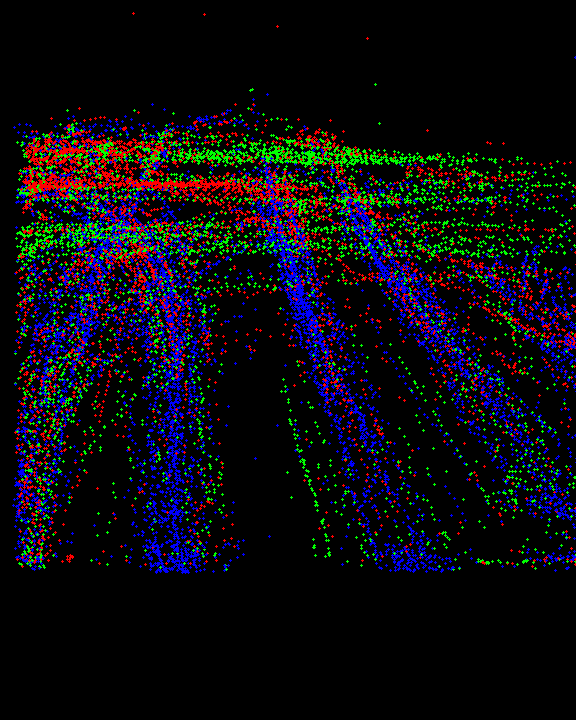
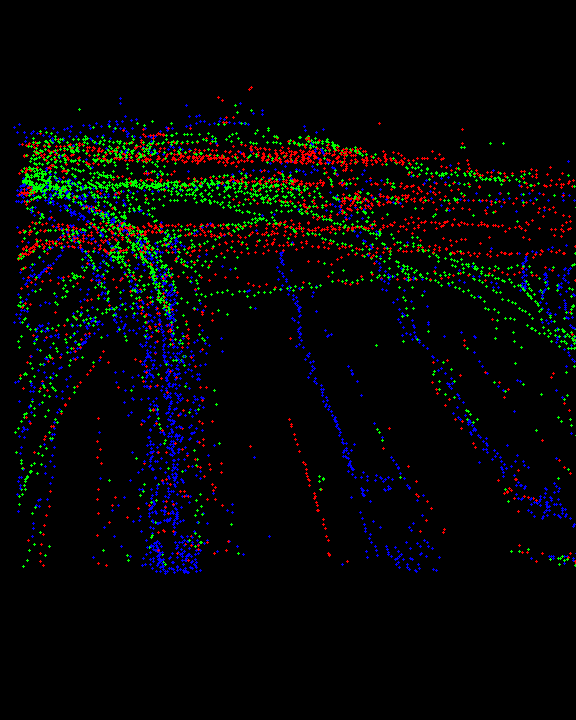
2019.8.06 morning
Get theta info from different clusters

diff --git a/Trajectory/point_cloud.py b/Trajectory/point_cloud.py
@@ -4,15 +4,18 @@ import os
 from sklearn.cluster import KMeans, SpectralClustering
 import pandas as pd
 import cv2
+from statistics import mean
 
-height_list = [720, 720, 480]
-width_list = [576, 576, 360]
+height_list = [720, 720, 480, 1920, 640]
+width_list = [576, 576, 360, 1080, 360]
 
 base = r'E:\MIT\Processed Data'
-name_list = ['car_surveillnace', 'LOOP', 'video1']
+name_list = ['car_surveillnace', 'LOOP', 'video1', 'video3', 'video6']
 
-# control which video to use
+# Parameters
 i = 1
+weight = 50
+cluster_num = 3
 
 video_name = name_list[i]
 height = height_list[i]
@@ -38,8 +41,6 @@ def point_cloud_cluster(vehicle_info_all):
     cy = []
     theta = []
     vehicle_data = []
-    weight = 50
-    cluster_num = 3
 
     for frame_index, frame_info in vehicle_info_all.items():
         for car_index, vehicle_info in frame_info.items():
@@ -49,6 +50,7 @@ def point_cloud_cluster(vehicle_info_all):
 
     df = pd.DataFrame(list(zip(cx, cy, theta)), columns=['cx', 'cy', 'theta'])
 
+    theta_min, theta_max = 0, 0
     for index, row in df.iterrows():
         vehicle_data.append([row['cx'], row['cy'], row['theta']])
 
@@ -61,12 +63,43 @@ def point_cloud_cluster(vehicle_info_all):
 
     img = np.zeros((height, width, 3), np.uint8)
 
-    colors = [(0, 0, 255), (0, 255, 0), (255, 0, 0), (255, 255, 0), (255, 0, 255), (0, 255, 255)]
+    # BGR
+    colors = [(0, 0, 255),
+              (0, 255, 0),
+              (255, 0, 0),
+              (255, 255, 0),
+              (255, 0, 255),
+              (0, 255, 255)]
 
     for i, l in enumerate(clustering.labels_):
         cv2.circle(img, (int(cx[i]), int(cy[i])), 1, colors[l], -1)
 
+    cluster_theta = get_cluster_theta(cluster_num, df, clustering.labels_)
+
+    for label in range(cluster_num):
+        cluster_theta[label]['color'] = colors[label]
+
     cv2.imwrite(cluster_point_path, img)
+
+
+def get_cluster_theta(n_cluster, point_df, cluster_label):
+    all_cluster_theta = {}
+    cluster_init = [False for i in range(n_cluster)]
+    for index, row in point_df.iterrows():
+        if not cluster_init[cluster_label[index]]:
+            cluster_init[cluster_label[index]] = True
+            all_cluster_theta[cluster_label[index]] = []
+        all_cluster_theta[cluster_label[index]].append(row['theta']/weight)
+
+    return_list = {}
+    for key, value in all_cluster_theta.items():
+        return_list[key] = {}
+        return_list[key]['min'] = min(value)
+        return_list[key]['max'] = max(value)
+        return_list[key]['avg'] = mean(value)
+        return_list[key]['point_num'] = len(value)
+
+    return return_list
 
 
 def main():

diff --git a/Trajectory/trajectory.py b/Trajectory/trajectory.py
@@ -9,11 +9,16 @@ base_path = 'E:/MIT'
 video_list = ['car_surveillnace.avi',
               'Loop.North.Zhongshan-East-G-1-20141028075000-20141028075916-1657796.ts',
               'Loop.North.Zhongshan-West-G-1-20141028075000-20141028075941-1716171.ts',
-              'video1.mp4',
-              'video2.mp4']
-video_name = video_list[3]
+              'video1.mp4', # 3
+              'video2.mp4',
+              'video3.mp4',
+              'video4.mp4',
+              'video5.mp4',
+              'video6.mp4'
+              ]
+video_name = video_list[2]
 
-path = os.path.join(base_path, 'video', video_name)
+path = os.path.join(base_path, 'Video', video_name)
 
 frame_num = 0
 current_frame = 0
@@ -70,7 +75,7 @@ def main():
                 # Morphological Operation
                 kernel = cv2.getStructuringElement(cv2.MORPH_ELLIPSE, (3, 3))
                 morphology_img = cv2.morphologyEx(binary_foregourd_img, cv2.MORPH_OPEN, kernel)
-                kernel = cv2.getStructuringElement(cv2.MORPH_ELLIPSE, (5, 5))
+                kernel = cv2.getStructuringElement(cv2.MORPH_ELLIPSE, (15, 15))
                 morphology_img = cv2.morphologyEx(morphology_img, cv2.MORPH_CLOSE, kernel)
 
                 # Decide Which Picture to Use
@@ -153,11 +158,8 @@ def get_img_moment(img, frame_num, vehicle_info_all):
     car_num = 0
 
     for cnt in contours:
-        # TODO add conditions for contours
         # area, height...
         (x, y, w, h) = cv2.boundingRect(cnt)
-        if frame_num == 583:
-            i = 0
         if not judge_contour(x, y, w, h):
             continue
 
